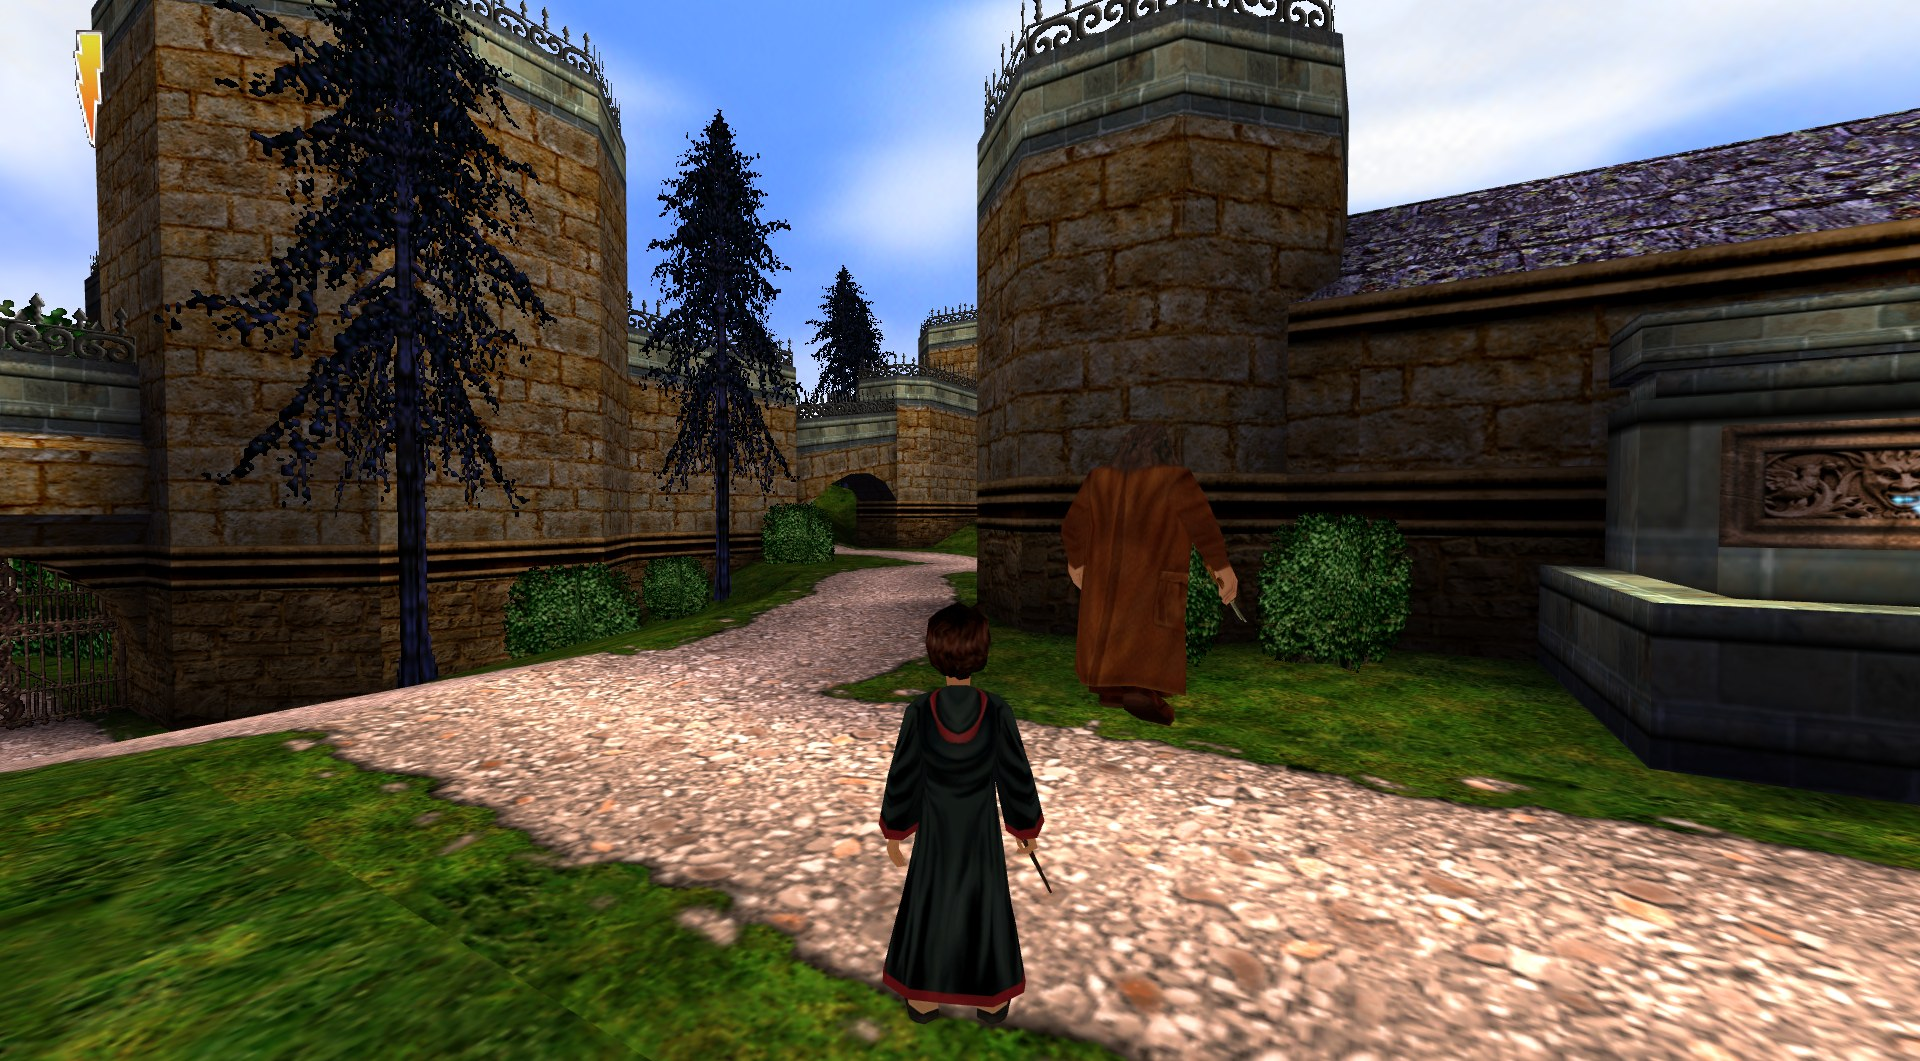
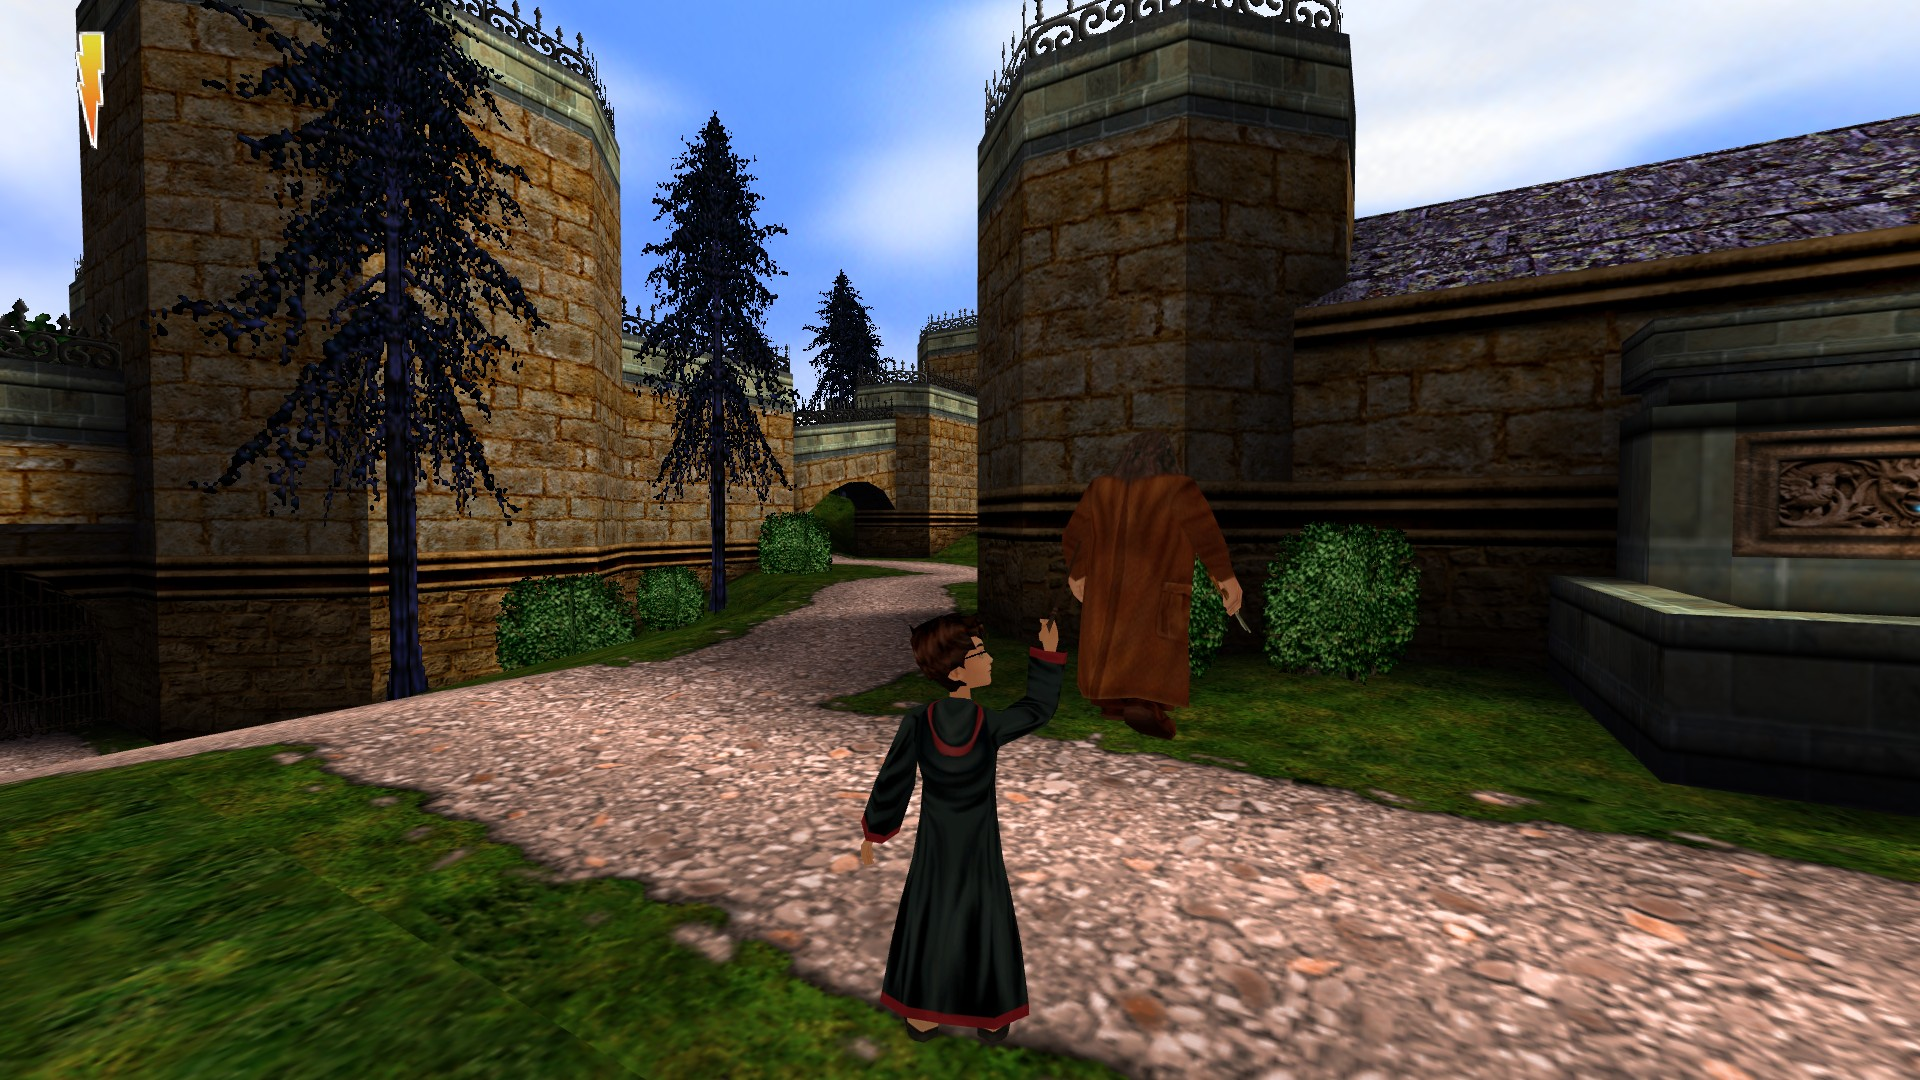
README screenshots retaken with the corrected lighting; tools/readme_shots.sh retakes them from fixed recipes

diff --git a/ROADMAP.md b/ROADMAP.md
@@ -218,6 +218,9 @@ channels) and particle effects.
       (`LD_Plane` parallel, `LD_Ambient`), `LightRadiusInner`, its smoothstep falloff, the 2x colour scale with 7-bit
       clamps, bDarkLight, the zone ambient, and `WorldLightRadius` scaled by DrawScale. The Quidditch pitch is lit like the original.
       Waver flicker and the rarer light effects (~60 lights) still use SurrealEngine's
+- [x] Light maps half as bright as the reading of Render.dll gave, measured against the original's Lev_Tut1 intro (every
+      level was ~2x too bright); lumels on the surface plane (Lev_Tut1b's fan vault was black). README screenshots
+      retaken with `tools/readme_shots.sh`
 - [ ] Bugs of the original to fix, not reproduce: [docs/re/hp1/original_bugs.md](docs/re/hp1/original_bugs.md)
 - [x] ImpactSoundSet, SoundContainer, ClipMarker, LocationID: Engine.dll has no native code for them, only boilerplate;
       their script classes are enough ([docs/re/engine/native_classes.md](docs/re/engine/native_classes.md))

diff --git a/docs/development.md b/docs/development.md
@@ -92,6 +92,14 @@ python tools/dll_report.py              # -> docs/re/reports/dlls.md
 Environment variables for screenshots, scripted input, actor dumps and traces, fixed cameras and console commands at
 set times, plus crash reports and the script debugger: [debug-tools.md](debug-tools.md).
 
+## README screenshots
+
+`tools/readme_shots.sh` retakes every image in `images/screenshots/` (and `social-preview.jpg`) from fixed recipes:
+map, the second the shot is taken at, and whether it's cropped to the cutscene picture. Rerun it after a visual fix
+(`tools/readme_shots.sh dumbledore hagrid` for some). It uses its own game copy, `../eagames/hp1-shots`, set to a
+1920x1080 window, so `hp1-work` keeps its settings. To add or move a shot, film the level with `HP1_SHOTS` every second
+or two, pick the frame, and add a line to the script's list.
+
 ## Comparing with HP2
 
 HP2 (retail 1.0, `../eagames/hp2`) runs on the same engine build (433). To see which ports carry over:
